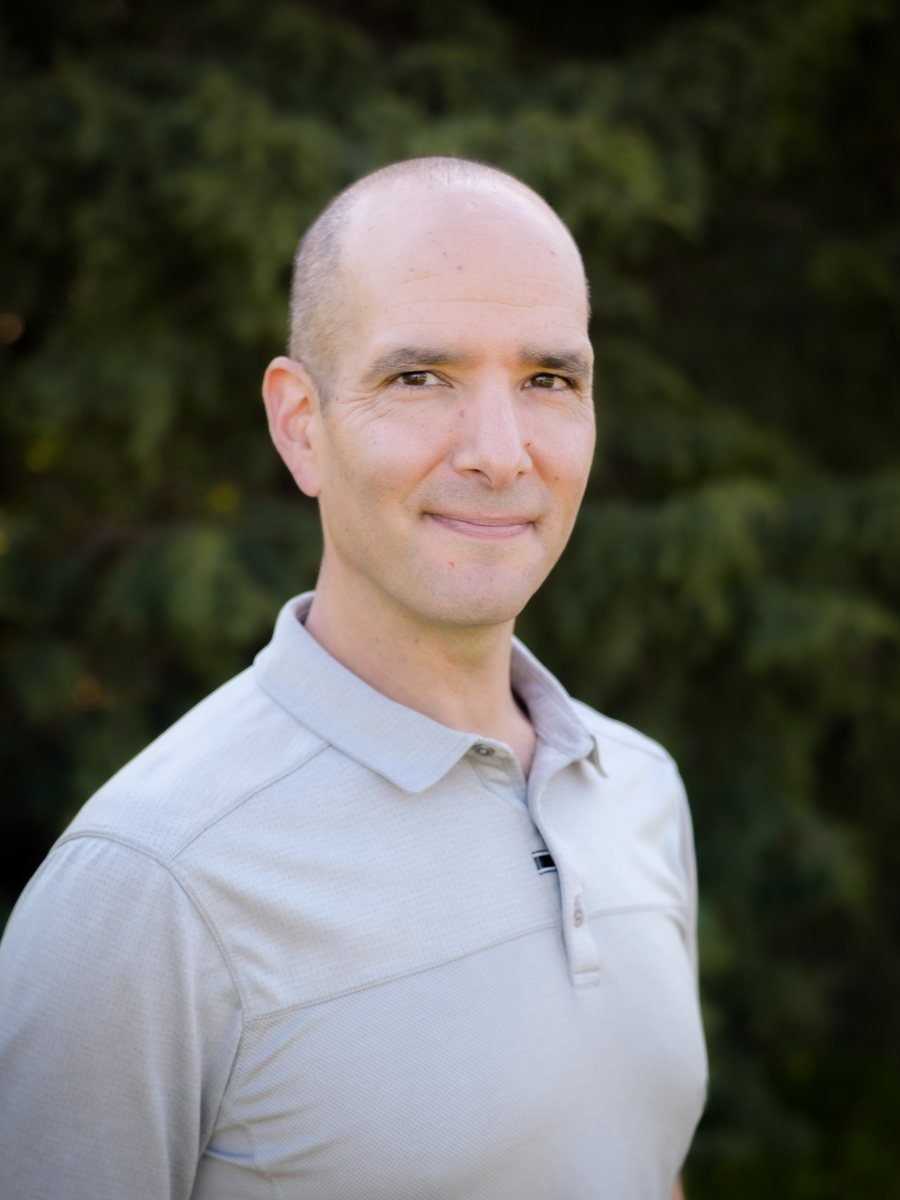
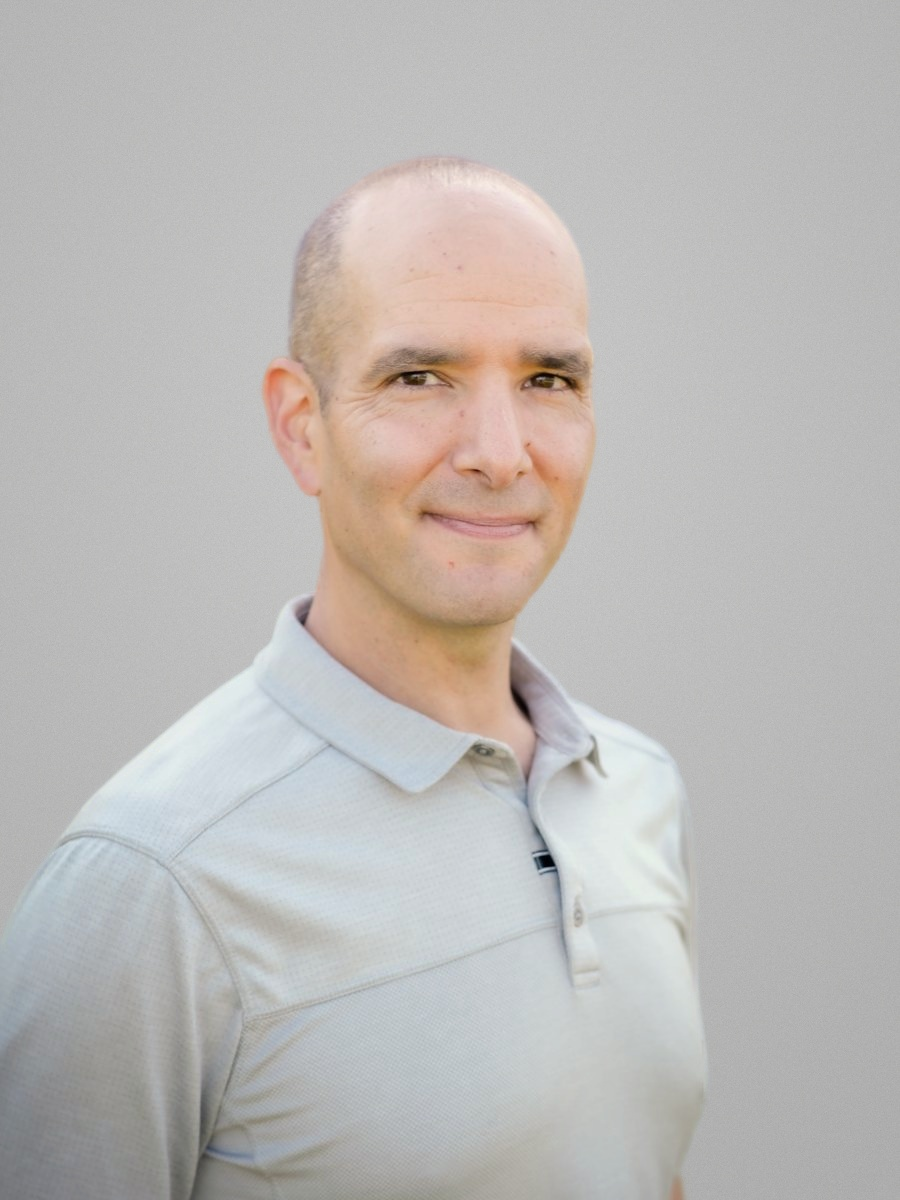
Match Matthew's portrait background to David's
Mirrors printfoam/printer-hacking commit 45ee0cd -- see that commit for
full reasoning (operator-requested override of an earlier no-retouch
decision; proper alpha matting, verified against the collar-gap and
green-spill failure modes a cruder attempt hit earlier).

python3 web/check.py: 7/7 pass.

Claude-Session: https://claude.ai/code/session_01Gpy28EDQ1Zop1rTauM4dbT

diff --git a/web/about.html b/web/about.html
@@ -267,17 +267,23 @@
         </div>
       </div>
 
-      <!-- Two portraits, 3:4, both now real photographs.
-           ⚠ THEY DO NOT MATCH, and nothing here pretends otherwise. Matthew's is
-           outdoors, warm, foliage behind, polo shirt; David's is an indoor studio
-           headshot, grey seamless, navy suit — and David's file is 432x576, which is
-           only ~1.2x the ~352px slot instead of 2x, so it is the softer of the two on
-           a retina screen. What IS controlled is the frame: identical class, identical
-           3:4 ratio, identical 22rem cap, identical radius, same distance to the name
-           below. The difference then reads as two photographs taken on two days, which
-           is true, rather than as a layout that broke. Do not retouch or recolour one
-           to match the other; one session with a camera fixes it properly, and until
-           then the honest version is the one that ships (README §7).
+      <!-- Two portraits, 3:4, both real photographs, now background-matched.
+           REVERSED 2026-08-20: an earlier version of this comment said not to
+           retouch one to match the other, reasoning that a real reshoot was the
+           only honest fix. The operator overruled that directly ("can you edit
+           my headshot so it matches davids? change the background?") — his own
+           photo, his call to make. Matthew's outdoor/foliage background was
+           replaced (proper alpha matting, not a flood-fill crop -- verified
+           pixel-level for the collar-gap and green-spill failure modes a
+           cruder attempt hit earlier this session) with a studio grey plate
+           colour-matched to David's actual backdrop (sampled, not eyeballed).
+           His pose, expression and clothing are untouched -- this is a
+           background swap, not a new photo, and nothing here claims it's a
+           studio session that didn't happen. What remains different, honestly:
+           David's is a tighter crop under harder studio-strobe contrast;
+           Matthew's keeps its original looser framing and softer available-
+           light rendering on his face -- fixing that would mean re-lighting,
+           which crosses into a new photo, not a background swap.
            NAME and ROLE were reserved fact slots in the skeleton and are now filled,
            because copy deck v1.1 states both inside the bio it wrote ("Matthew Pearlson,
            co-founder." / "David Walker, co-founder."): the fact is the deck's, not ours,
@@ -291,7 +297,7 @@
         <article class="work-item">
           <img class="shot-portrait" src="img/portrait-matthew.jpg" width="900" height="1200"
                loading="lazy" decoding="async"
-               alt="Matthew Pearlson, photographed outdoors in a pale grey polo shirt against dark evergreen foliage, turned slightly to camera.">
+               alt="Matthew Pearlson, photographed in a studio against a plain grey background, in a pale grey polo shirt, turned slightly to camera.">
           <h3 class="h3" data-slot="person-1-name">Matthew Pearlson</h3>
           <span class="meta" data-slot="person-1-role">Co-founder</span>
           <p data-slot="person-1-bio">
